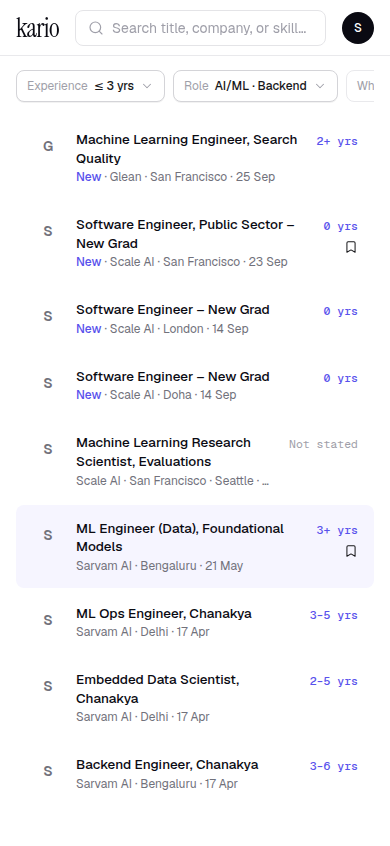
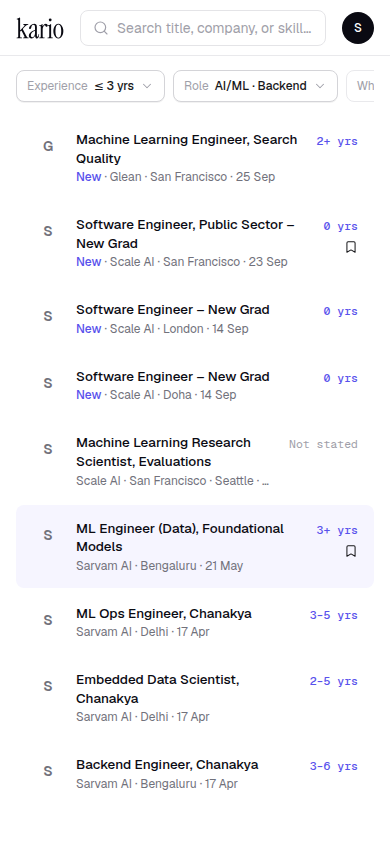
brand: SVG wordmark and k mark from Instrument Serif; M4.5 look approved
Claude-Session: https://claude.ai/code/session_01WfKH82cT1U25krviRSmUEw

Changed region(s): [[0.2462, 0.0307, 0.7692, 0.0615], [0.0308, 0.0, 0.1538, 0.0615]]

diff --git a/docs/wireframes/workspace.html b/docs/wireframes/workspace.html
@@ -12,14 +12,14 @@
 <meta charset="utf-8">
 <meta name="viewport" content="width=device-width, initial-scale=1">
 <title>Kario</title>
+<link rel="icon" href="../../brand/kario-mark.svg" type="image/svg+xml">
 <link rel="preconnect" href="https://fonts.googleapis.com">
-<link href="https://fonts.googleapis.com/css2?family=Geist:wght@400;500;600&family=Geist+Mono:wght@400;500;600&family=Instrument+Serif:ital@0;1&display=swap" rel="stylesheet">
+<link href="https://fonts.googleapis.com/css2?family=Geist:wght@400;500;600&family=Geist+Mono:wght@400;500;600&display=swap" rel="stylesheet">
 <script src="https://cdn.jsdelivr.net/npm/@tailwindcss/browser@4.1.11"></script>
 <style type="text/tailwindcss">
   @theme {
     --font-sans: "Geist", ui-sans-serif, system-ui, sans-serif;
     --font-mono: "Geist Mono", ui-monospace, monospace;
-    --font-serif: "Instrument Serif", ui-serif, Georgia, serif;
     --color-canvas: #FFFFFF;
     --color-forest: #5851EC;
     --color-forest-hover: #4A42D9;
@@ -55,7 +55,7 @@
 
 <header class="sticky top-0 z-30 h-14 border-b border-zinc-200/80 bg-canvas/90 backdrop-blur-md">
   <div class="mx-auto flex h-full max-w-[1280px] items-center gap-4 px-4 lg:gap-6 lg:px-6">
-    <span class="font-serif text-[26px] leading-none tracking-tight text-ink">kario</span>
+    <a href="#" class="shrink-0" aria-label="kario home"><svg class="h-[22px] w-auto text-ink" xmlns="http://www.w3.org/2000/svg" viewBox="-5 240 1719 789" role="img" aria-label="kario"><path fill="currentColor" d="M27.0 1000.0Q15.0 1000.0 15.0 989.0Q15.0 979.0 26.0 977.0L40.0 975.0Q61.0 972.0 67.5 963.0Q74.0 954.0 74.0 933.0V360.0Q74.0 342.0 68.5 335.5Q63.0 329.0 49.0 327.0L28.0 324.0Q17.0 322.0 17.0 312.0Q17.0 302.0 28.0 300.0Q56.0 294.0 75.0 286.0Q94.0 278.0 107.0 270.0Q123.0 260.0 131.0 260.0Q142.0 260.0 142.0 276.0V695.0Q142.0 705.0 150.5 707.5Q159.0 710.0 167.0 701.0L284.0 575.0Q305.0 552.0 301.5 536.5Q298.0 521.0 278.0 517.0L255.0 513.0Q242.0 510.0 242.0 500.0Q242.0 490.0 256.0 490.0H428.0Q442.0 490.0 442.0 501.0Q442.0 512.0 429.0 513.0L420.0 514.0Q397.0 516.0 374.0 531.5Q351.0 547.0 319.0 580.0L257.0 646.0Q236.0 669.0 247.0 691.0L373.0 933.0Q384.0 953.0 397.0 962.0Q410.0 971.0 429.0 975.0L439.0 977.0Q451.0 980.0 451.0 989.0Q451.0 1000.0 437.0 1000.0H263.0Q249.0 1000.0 249.0 989.0Q249.0 979.0 262.0 977.0L279.0 975.0Q317.0 970.0 295.0 926.0L200.0 741.0Q195.0 731.0 185.5 730.0Q176.0 729.0 168.0 737.0L157.0 748.0Q148.0 757.0 145.0 766.0Q142.0 775.0 142.0 786.0V933.0Q142.0 954.0 148.5 963.0Q155.0 972.0 176.0 974.0L203.0 977.0Q214.0 979.0 214.0 989.0Q214.0 1000.0 202.0 1000.0ZM551.0 1009.0Q509.0 1009.0 482.0 982.5Q455.0 956.0 455.0 912.0Q455.0 869.0 482.0 830.5Q509.0 792.0 556.0 761.0Q603.0 730.0 663.0 711.0Q676.0 707.0 676.0 694.0V603.0Q676.0 555.0 661.0 534.5Q646.0 514.0 620.0 514.0Q595.0 514.0 574.5 536.5Q554.0 559.0 545.0 612.0Q540.0 644.0 523.5 658.5Q507.0 673.0 490.0 673.0Q462.0 673.0 462.0 645.0Q462.0 616.0 478.5 587.5Q495.0 559.0 522.0 535.5Q549.0 512.0 581.0 498.0Q613.0 484.0 645.0 484.0Q744.0 484.0 744.0 599.0V905.0Q744.0 947.0 765.0 947.0Q778.0 947.0 789.0 929.5Q800.0 912.0 800.0 870.0Q800.0 854.0 813.0 854.0Q825.0 854.0 825.0 871.0Q825.0 944.0 799.5 976.5Q774.0 1009.0 742.0 1009.0Q718.0 1009.0 704.0 989.5Q690.0 970.0 685.0 943.0Q684.0 933.0 676.5 932.5Q669.0 932.0 662.0 942.0Q638.0 975.0 613.0 992.0Q588.0 1009.0 551.0 1009.0ZM578.0 963.0Q604.0 963.0 626.0 944.5Q648.0 926.0 662.0 895.0Q676.0 864.0 676.0 825.0V752.0Q676.0 733.0 655.0 741.0Q594.0 763.0 560.5 801.5Q527.0 840.0 527.0 894.0Q527.0 963.0 578.0 963.0ZM964.0 554.0Q1005.0 484.0 1063.0 484.0Q1096.0 484.0 1112.0 503.5Q1128.0 523.0 1128.0 547.0Q1128.0 566.0 1118.5 578.0Q1109.0 590.0 1089.0 590.0Q1073.0 590.0 1065.5 582.5Q1058.0 575.0 1053.5 565.0Q1049.0 555.0 1043.0 547.5Q1037.0 540.0 1023.0 540.0Q1005.0 540.0 989.0 561.5Q973.0 583.0 962.5 619.0Q952.0 655.0 952.0 701.0V933.0Q952.0 954.0 958.5 963.0Q965.0 972.0 986.0 974.0L1013.0 977.0Q1024.0 979.0 1024.0 988.0Q1024.0 1000.0 1009.0 1000.0H840.0Q825.0 1000.0 825.0 989.0Q825.0 980.0 838.0 977.0L850.0 975.0Q871.0 971.0 877.5 962.5Q884.0 954.0 884.0 933.0V597.0Q884.0 579.0 878.5 572.5Q873.0 566.0 859.0 564.0L838.0 561.0Q825.0 560.0 825.0 550.0Q825.0 542.0 841.0 539.0Q872.0 534.0 888.5 523.0Q905.0 512.0 923.0 496.0Q932.0 487.0 938.0 487.0Q947.0 487.0 947.0 499.0V553.0Q947.0 560.0 953.0 561.5Q959.0 563.0 964.0 554.0ZM1222.0 395.0Q1201.0 395.0 1186.5 380.0Q1172.0 365.0 1172.0 342.0Q1172.0 319.0 1186.5 304.5Q1201.0 290.0 1222.0 290.0Q1243.0 290.0 1257.0 304.5Q1271.0 319.0 1271.0 342.0Q1271.0 365.0 1257.0 380.0Q1243.0 395.0 1222.0 395.0ZM1138.0 1000.0Q1123.0 1000.0 1123.0 989.0Q1123.0 980.0 1136.0 977.0L1148.0 975.0Q1173.0 971.0 1180.0 962.5Q1187.0 954.0 1187.0 933.0V597.0Q1187.0 579.0 1181.5 572.5Q1176.0 566.0 1162.0 564.0L1141.0 561.0Q1128.0 560.0 1128.0 550.0Q1128.0 542.0 1144.0 539.0Q1175.0 534.0 1194.0 523.0Q1213.0 512.0 1231.0 496.0Q1240.0 487.0 1246.0 487.0Q1255.0 487.0 1255.0 499.0V933.0Q1255.0 954.0 1261.0 963.0Q1267.0 972.0 1284.0 974.0L1309.0 977.0Q1320.0 979.0 1320.0 988.0Q1320.0 1000.0 1305.0 1000.0ZM1514.0 1009.0Q1463.0 1009.0 1422.5 974.5Q1382.0 940.0 1358.0 880.0Q1334.0 820.0 1334.0 746.0Q1334.0 672.0 1358.0 613.0Q1382.0 554.0 1423.0 519.0Q1464.0 484.0 1514.0 484.0Q1565.0 484.0 1605.5 519.0Q1646.0 554.0 1670.0 613.0Q1694.0 672.0 1694.0 746.0Q1694.0 820.0 1670.5 880.0Q1647.0 940.0 1606.0 974.5Q1565.0 1009.0 1514.0 1009.0ZM1514.0 984.0Q1618.0 984.0 1618.0 746.0Q1618.0 509.0 1514.0 509.0Q1410.0 509.0 1410.0 746.0Q1410.0 984.0 1514.0 984.0Z"/></svg></a>
     <label class="ml-auto flex h-9 w-full max-w-[380px] items-center gap-2 rounded-lg border border-zinc-200 bg-white px-3 text-sm text-zinc-400 focus-within:border-zinc-400">
       <svg class="icon"><use href="#i-search"/></svg>
       <input id="search" class="w-full bg-transparent text-zinc-900 outline-none placeholder:text-zinc-400" placeholder="Search title, company, or skill…">

diff --git a/brand/make_logo.py b/brand/make_logo.py
@@ -1,0 +1,41 @@
+"""Outline 'kario' in Instrument Serif into SVG paths (the wordmark becomes a logo, not a font)."""
+import sys
+from fontTools.ttLib import TTFont
+from fontTools.pens.svgPathPen import SVGPathPen
+from fontTools.pens.transformPen import TransformPen
+from fontTools.pens.boundsPen import BoundsPen
+
+font = TTFont(sys.argv[1]); out = sys.argv[2]
+gs, cmap, hmtx = font.getGlyphSet(), font.getBestCmap(), font["hmtx"]
+upm = font["head"].unitsPerEm
+TRACK = -0.02 * upm  # matches the prototype's tight tracking
+
+def outline(text, x0=0.0, y0=0.0, scale=1.0):
+    """Paths for text with the baseline at y0 (SVG y grows downward)."""
+    pen, bounds, x = SVGPathPen(gs), BoundsPen(gs), x0
+    for ch in text:
+        g = cmap[ord(ch)]
+        t = (scale, 0, 0, -scale, x, y0)
+        gs[g].draw(TransformPen(pen, t)); gs[g].draw(TransformPen(bounds, t))
+        x += (hmtx[g][0] + TRACK) * scale
+    return pen.getCommands(), bounds.bounds
+
+# Wordmark: tight viewBox around the ink, fill = currentColor so it follows the text colour.
+d, (x1, y1, x2, y2) = outline("kario", y0=upm)
+pad = 0.02 * upm
+vb = f"{x1 - pad:.0f} {y1 - pad:.0f} {x2 - x1 + 2 * pad:.0f} {y2 - y1 + 2 * pad:.0f}"
+open(f"{out}/kario-wordmark.svg", "w").write(
+    f'<svg xmlns="http://www.w3.org/2000/svg" viewBox="{vb}" role="img" aria-label="kario">'
+    f'<path fill="currentColor" d="{d}"/></svg>\n')
+
+# Mark: a lowercase 'k' centred in a rounded square, for the favicon and app icon.
+S = 512
+k_d, (a1, b1, a2, b2) = outline("k", scale=1.0, y0=0)
+sc = 0.62 * S / (b2 - b1)
+k_d, (a1, b1, a2, b2) = outline("k", scale=sc, y0=0)
+dx, dy = (S - (a2 - a1)) / 2 - a1, (S - (b2 - b1)) / 2 - b1
+open(f"{out}/kario-mark.svg", "w").write(
+    f'<svg xmlns="http://www.w3.org/2000/svg" viewBox="0 0 {S} {S}" role="img" aria-label="kario">'
+    f'<rect width="{S}" height="{S}" rx="{S * 0.22:.0f}" fill="#0A0A12"/>'
+    f'<g transform="translate({dx:.1f} {dy:.1f})"><path fill="#FFFFFF" d="{k_d}"/></g></svg>\n')
+print("viewBox", vb)

diff --git a/docs/decisions.md b/docs/decisions.md
@@ -4,6 +4,21 @@ Newest first. Each entry: date, options considered, choice, why.
 
 ---
 
+## 2026-10-17 — Logo: outlined Instrument Serif wordmark; M4.5 look approved
+- **Options:**
+  - load Instrument Serif as a third font, just for the wordmark
+  - outline the wordmark into an SVG logo
+- **Choice (Shrey):** the SVG logo (`brand/kario-wordmark.svg`), plus a square "k" mark
+  (`brand/kario-mark.svg`) for the favicon and app icon.
+- **Why:** it keeps the site at two font families, as `CLAUDE.md` requires. It also saves a
+  font download on budget phones, and the logo looks the same everywhere.
+- **Licence:** Instrument Serif is under the SIL Open Font License, which allows using it in a
+  logo.
+- **Status:** Shrey approved the workspace look (`docs/wireframes/workspace.html`). M4.5 is done;
+  the next step is the Next.js scaffold (M4.6).
+
+---
+
 ## 2026-10-17 — Visual direction: split-pane workspace, white + purple (M4.5)
 - **Options shown:** the split view in three styles (Midnight dark/lime, Paper light/mono, Bold
   warm/orange).

diff --git a/brand/README.md b/brand/README.md
@@ -1,0 +1,16 @@
+# Kario brand files
+
+| File | Use |
+|---|---|
+| `kario-wordmark.svg` | The logo in the header. One path with `fill="currentColor"`, so it takes the text colour (ink on white, white on dark). |
+| `kario-mark.svg` | A square "k" for the favicon, the app icon and social avatars. |
+| `logo-preview.png` (in `docs/wireframes/`) | Both at several sizes, on light and dark. |
+
+The wordmark is "kario" set in **Instrument Serif** (SIL Open Font License, which allows use in
+a logo) and turned into outlines. The site never loads the serif font: that keeps it at two
+font families (Geist and Geist Mono), as `CLAUDE.md` requires, and saves a font download.
+
+To regenerate the files (needs `pip install fonttools brotli` and Instrument Serif Regular as a
+`.ttf` or `.woff2`):
+
+    python brand/make_logo.py path/to/InstrumentSerif-Regular.woff2 brand

diff --git a/docs/plan.md b/docs/plan.md
@@ -356,7 +356,7 @@ Shrey's learning note.
 | M4.2 ✅ | Where Next.js runs: static export + Worker-added preview tags | Entry in `docs/decisions.md` |
 | M4.3 | Brief + references for the job list | `docs/briefs/job-list.md`, Shrey reviews |
 | M4.4 ✅ | Wireframe: split view (list + detail) picked after 3 rounds (2026-10-17) | `docs/wireframes/options.html?v=3` |
-| M4.5 | Design tokens (colour, type, spacing, radius, elevation, motion) | Shrey drafts, Claude reviews |
+| M4.5 ✅ | Look approved: white + purple `#5851EC`, Geist + Geist Mono, SVG wordmark (2026-10-17) | `docs/wireframes/workspace.html`, `brand/` |
 | M4.6 | Next.js scaffold, job list ported, Playwright + performance checks | PR |
 | M5+ | Phase 1 features one by one (onboarding, mobile layout, job pages…) | |
 
